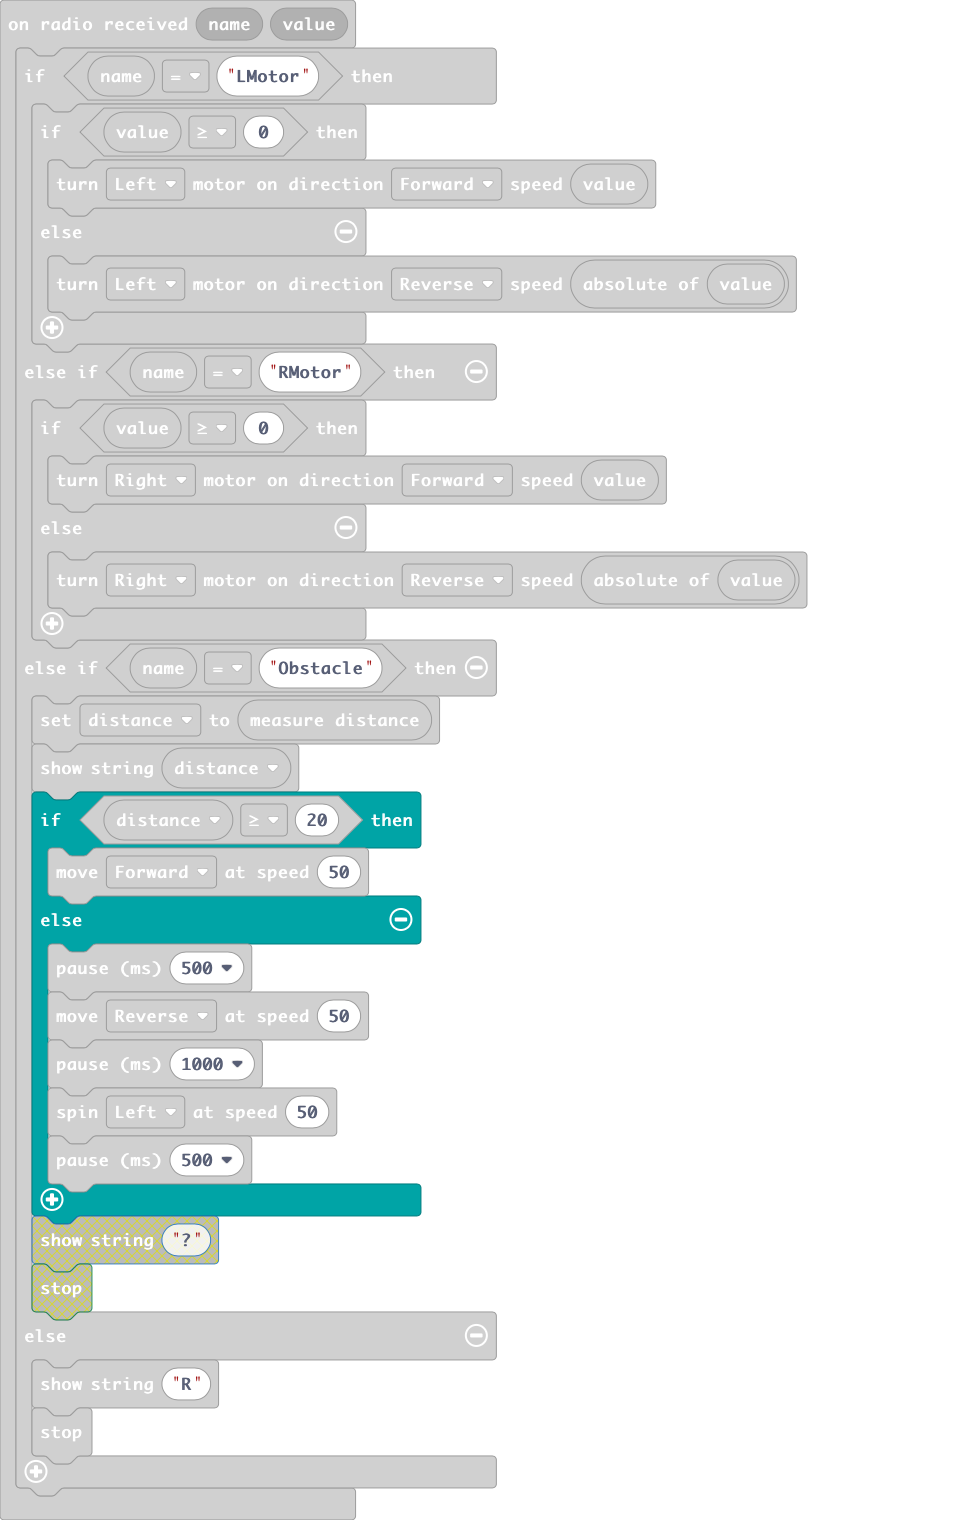
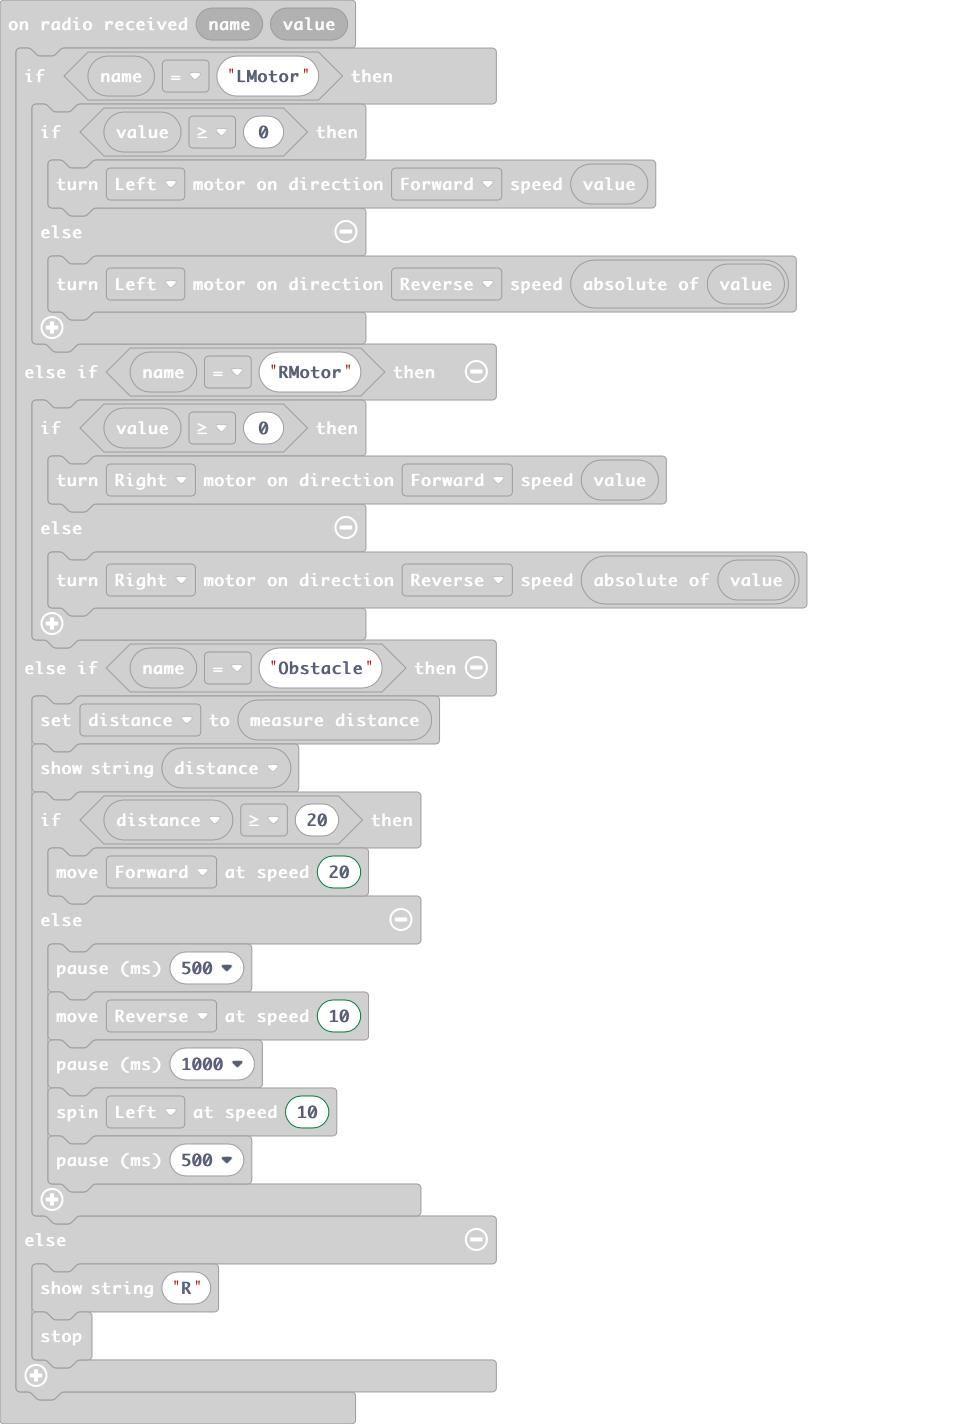
Update main.blocks, main.ts

Changed region(s): [[0.0312, 0.0, 0.8411, 0.9888], [0.0312, 0.0618, 0.0623, 0.0927]]

diff --git a/main.ts b/main.ts
@@ -15,12 +15,12 @@ radio.onReceivedValue(function (name, value) {
         distance = Kitronik_Move_Motor.measure()
         basic.showString("" + (distance))
         if (distance >= 20) {
-            Kitronik_Move_Motor.move(Kitronik_Move_Motor.DriveDirections.Forward, 50)
+            Kitronik_Move_Motor.move(Kitronik_Move_Motor.DriveDirections.Forward, 20)
         } else {
             basic.pause(500)
-            Kitronik_Move_Motor.move(Kitronik_Move_Motor.DriveDirections.Reverse, 50)
+            Kitronik_Move_Motor.move(Kitronik_Move_Motor.DriveDirections.Reverse, 10)
             basic.pause(1000)
-            Kitronik_Move_Motor.spin(Kitronik_Move_Motor.SpinDirections.Left, 50)
+            Kitronik_Move_Motor.spin(Kitronik_Move_Motor.SpinDirections.Left, 10)
             basic.pause(500)
         }
     } else {
